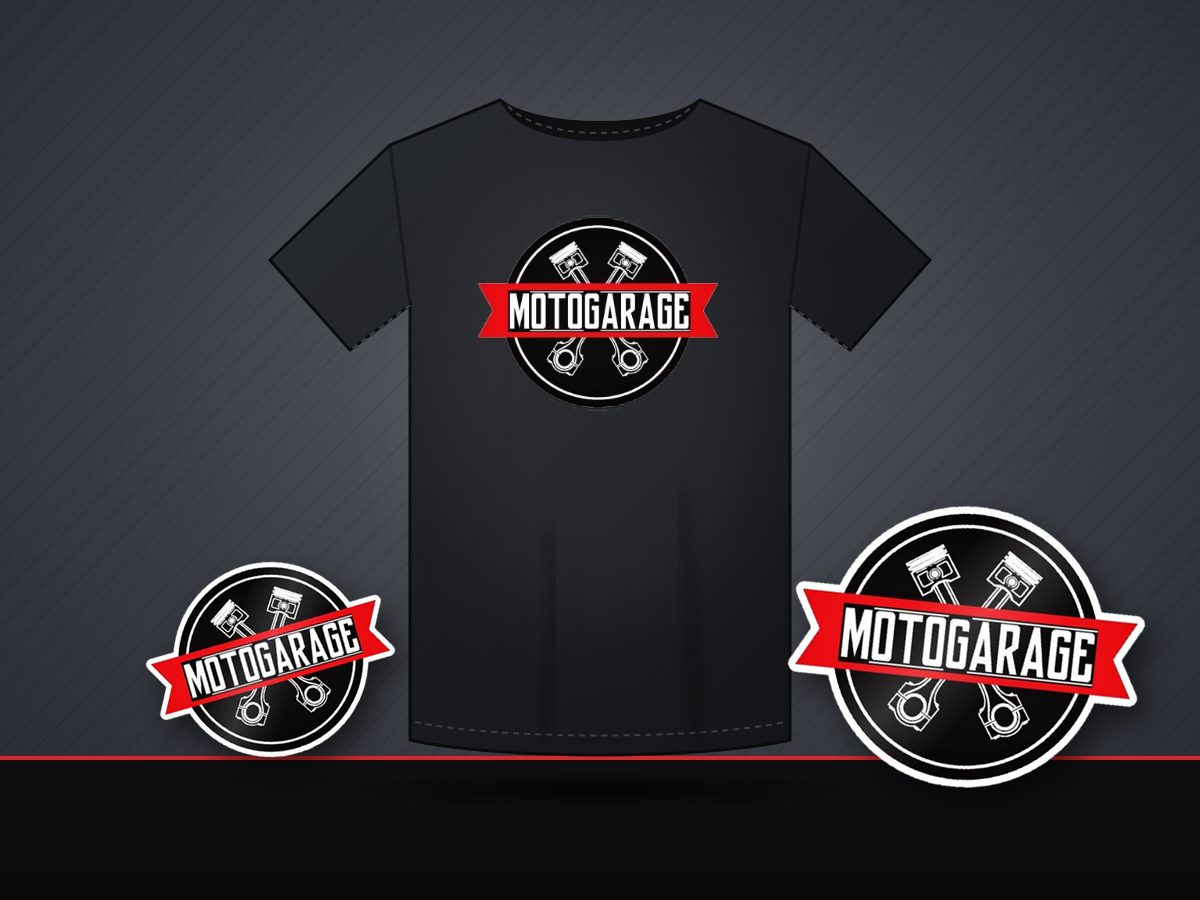
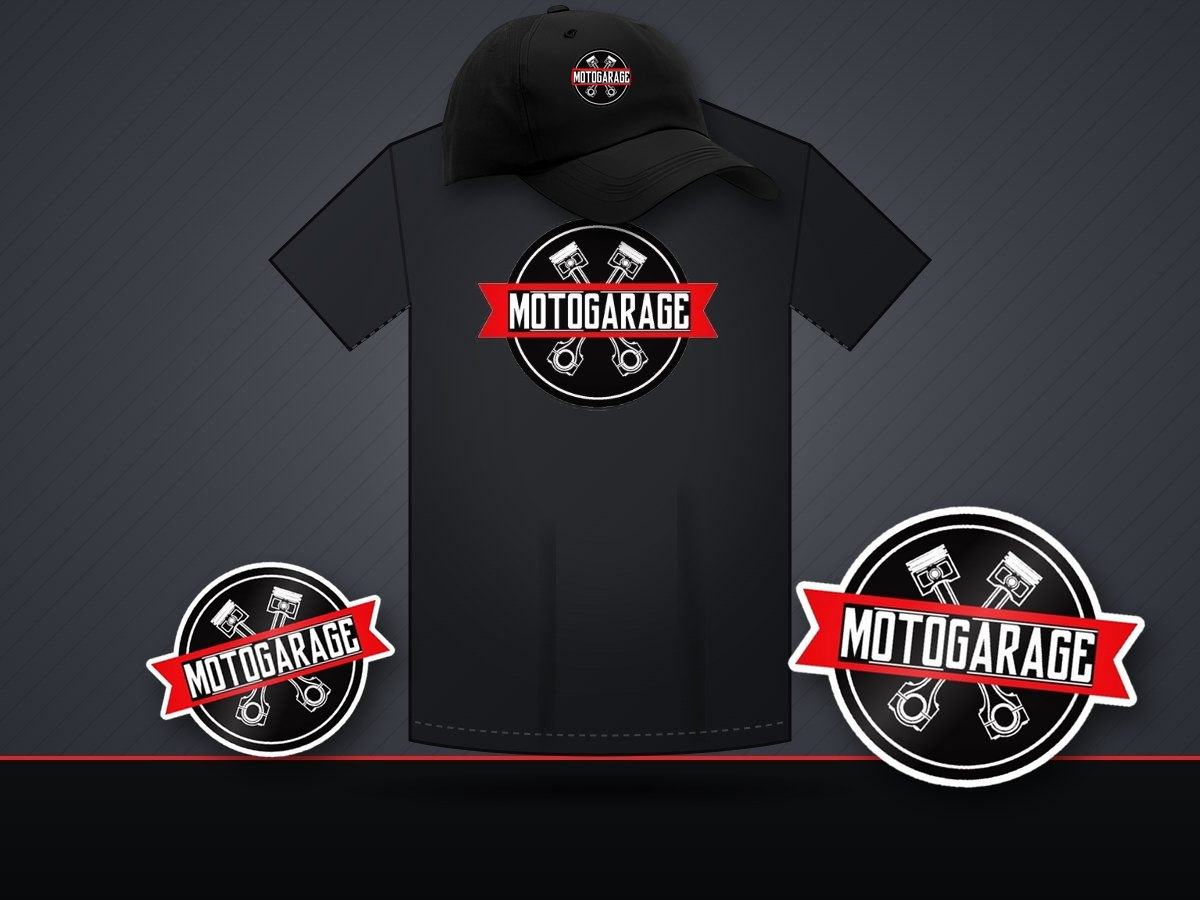
feat(db): demo campaign prizes drawn by Quiniela with updated quantities
Seed: 5 cash prizes and 2 apparel kits, every prize uses the Quiniela
mechanism, the vehicle's conditions put delivery and transfer costs on
the winner, and the bases describe the Quiniela draw and vacancies. The
kit image now shows a cap above the T-shirt (CC BY 4.0, credited).

Changed region(s): [[0.37, 0.0, 0.5858, 0.28], [0.5858, 0.1867, 0.6167, 0.2178]]

diff --git a/packages/db/src/scripts/seed.ts b/packages/db/src/scripts/seed.ts
@@ -368,14 +368,43 @@ async function seedDemoCampaign(db: Database, organizationId: string, entriesPer
 		{ organizationId, campaignId, kind: 'psp', status: 'pending' }
 	]);
 
+	// Every prize is decided by the Quiniela (S6) and the winner pays the vehicle's delivery and transfer (S3), owner feedback 2026-10-28.
 	const body = [
 		'# Bases y condiciones (borrador de demostración)',
 		'',
 		'Este texto es un **borrador** que muestra cómo se publican las bases. No es un reglamento vigente.',
 		'',
-		'- La modalidad, la autoridad de aplicación y el mecanismo de selección se completan con la aprobación legal.',
-		'- Las reglas esenciales quedan bloqueadas al abrir la campaña. Cualquier cambio material genera una nueva versión publicada.',
-		'- La lista de participaciones se congela al cierre y se publica su huella SHA-256 antes de la adjudicación.'
+		'## Premios',
+		'',
+		'1. Una Honda Tornado 300 0 km. La entrega del vehículo y los gastos de patentamiento y transferencia están a cargo del ganador.',
+		'2. Cinco premios de $100.000 en efectivo.',
+		'3. Dos kits de indumentaria MotoGarage (remera, gorra y calcomanías).',
+		'',
+		'## Cupones',
+		'',
+		'- Cada chance es un cupón numerado del 0000 al 9999, y cada cupón vale una chance. Los números se asignan en orden cuando se confirma el pago.',
+		'- Cuando no quedan cupones libres, no se venden más chances.',
+		'',
+		'## Cómo se adjudican los premios',
+		'',
+		'- Al cierre se congela la lista de cupones y se publican la lista, sin datos personales, y su huella SHA-256.',
+		'- Todos los premios salen de los 20 números del extracto oficial de una jugada de la Quiniela realizada después de esa publicación. La jugada, su fecha y hora y el enlace al extracto oficial se publican en el registro de transparencia.',
+		'- Los 20 números se leen en su orden oficial, del 1.º al 20.º. Un número gana cuando coincide con un cupón válido de la lista publicada que todavía no ganó ningún premio.',
+		'- Los premios se completan en este orden: la moto, después los premios en efectivo y por último los kits. El primer número que coincide gana la moto, los cinco siguientes ganan los premios en efectivo y los dos siguientes, los kits.',
+		'- Los números que coinciden después definen los suplentes, en el mismo orden: dos para la moto y uno para cada premio en efectivo y cada kit.',
+		'- Un número repetido o un cupón que ya ganó no cuenta. Cada premio tiene un único ganador, y una misma persona puede ganar más de un premio con cupones distintos.',
+		'- La plataforma no hace un sorteo propio: cualquiera puede comprobar el resultado con la lista publicada y el extracto oficial.',
+		'',
+		'## Premios vacantes',
+		'',
+		'- Si los números del extracto no alcanzan para todos los premios, los premios sin cupón ganador quedan vacantes. Los premios ya ganados se mantienen.',
+		'- La campaña se reabre para una nueva ronda, con una nueva fecha de cierre anunciada en el registro público. Todos los cupones vendidos siguen participando.',
+		'- Al cierre de cada ronda se publica una nueva lista con su huella, y la siguiente jugada de la Quiniela decide solo los premios vacantes, con las mismas reglas.',
+		'',
+		'## Generales',
+		'',
+		'- La modalidad y la autoridad de aplicación se completan con la aprobación legal.',
+		'- Las reglas esenciales quedan bloqueadas al abrir la campaña. Cualquier cambio material genera una nueva versión publicada.'
 	].join('\n');
 	await db.insert(s.campaignRuleVersions).values({
 		organizationId,
@@ -389,16 +418,37 @@ async function seedDemoCampaign(db: Database, organizationId: string, entriesPer
 	});
 
 	// Thumbnails that identify each prize at a glance; credits in apps/web/static/tenants/motogarage/premios/CREDITS.md.
+	// Who pays the vehicle's delivery and transfer is a condition of this campaign, not of the organization (S3, 2026-10-28).
 	await db.insert(s.prizes).values([
-		{ organizationId, campaignId, position: 1, kind: 'vehicle', title: 'Honda Tornado 300 0 km', description: 'Patentamiento y flete a cargo de la organización, según bases.', declaredValueMinor: 850_000_000, quantity: 1, alternatesCount: 2, mechanism: 'quiniela', imageUrl: '/tenants/motogarage/premios/moto.jpg' },
-		{ organizationId, campaignId, position: 2, kind: 'cash', title: '$100.000 en efectivo', declaredValueMinor: 10_000_000, quantity: 10, alternatesCount: 1, imageUrl: '/tenants/motogarage/premios/efectivo.jpg' },
-		{ organizationId, campaignId, position: 3, kind: 'product', title: 'Kit de indumentaria MotoGarage', description: 'Remera, gorra y calcomanías.', declaredValueMinor: 6_000_000, quantity: 5, alternatesCount: 1, imageUrl: '/tenants/motogarage/premios/kit.jpg' }
+		{
+			organizationId,
+			campaignId,
+			position: 1,
+			kind: 'vehicle',
+			title: 'Honda Tornado 300 0 km',
+			description: 'La entrega y los gastos de patentamiento y transferencia están a cargo del ganador, según bases.',
+			conditions: 'El ganador se hace cargo de la entrega del vehículo y de los gastos de patentamiento y transferencia.',
+			declaredValueMinor: 850_000_000,
+			quantity: 1,
+			alternatesCount: 2,
+			mechanism: 'quiniela',
+			imageUrl: '/tenants/motogarage/premios/moto.jpg'
+		},
+		{ organizationId, campaignId, position: 2, kind: 'cash', title: '$100.000 en efectivo', declaredValueMinor: 10_000_000, quantity: 5, alternatesCount: 1, mechanism: 'quiniela', imageUrl: '/tenants/motogarage/premios/efectivo.jpg' },
+		{ organizationId, campaignId, position: 3, kind: 'product', title: 'Kit de indumentaria MotoGarage', description: 'Remera, gorra y calcomanías.', declaredValueMinor: 6_000_000, quantity: 2, alternatesCount: 1, mechanism: 'quiniela', imageUrl: '/tenants/motogarage/premios/kit.jpg' }
 	]);
 
 	await db.insert(s.campaignFaqs).values([
 		{ organizationId, campaignId, position: 0, question: '¿Necesito crear una cuenta para comprar?', answer: 'No. Comprás con tu DNI y tu email, y recibís el comprobante y el acceso a tus archivos por correo.' },
 		{ organizationId, campaignId, position: 1, question: '¿Cómo consulto mis compras?', answer: 'En Consultar ingresás tu DNI y te enviamos un código de un solo uso al email de tu compra. Nadie más puede ver tus datos.' },
 		{ organizationId, campaignId, position: 2, question: '¿Qué significa la huella SHA-256?', answer: 'Al cierre publicamos la lista completa de participaciones sin datos personales y su huella. Cualquiera puede recalcularla y comprobar que la lista no cambió después.' },
+		{
+			organizationId,
+			campaignId,
+			position: 3,
+			question: '¿Quién paga la entrega y la transferencia de la moto?',
+			answer: 'En esta campaña, el ganador: la entrega del vehículo y los gastos de patentamiento y transferencia están a su cargo, como dicen las bases.'
+		},
 		{ organizationId, campaignId: null, position: 0, question: '¿Hacen envíos?', answer: 'Sí, los productos físicos se envían a todo el país o se retiran en el taller.' },
 		{
 			organizationId,
@@ -414,14 +464,14 @@ async function seedDemoCampaign(db: Database, organizationId: string, entriesPer
 			position: 2,
 			question: '¿Cómo y cuándo se realiza el sorteo?',
 			answer:
-				'El sorteo se hace en la fecha publicada en la campaña y se transmite en vivo por nuestro Instagram y nuestro canal de YouTube. El premio mayor sale de la Lotería Nacional; los demás premios se sortean con la app Sorteos.'
+				'El sorteo se hace en la fecha publicada en la campaña y se transmite en vivo por nuestro Instagram y nuestro canal de YouTube. Los premios salen de los 20 números del extracto oficial de la Quiniela, como explican las bases de cada campaña. Si un premio no tiene cupón ganador, la campaña se reabre y una próxima jugada lo decide.'
 		},
 		{
 			organizationId,
 			campaignId: null,
 			position: 3,
 			question: '¿Quién paga los gastos de transferencia y flete del premio?',
-			answer: 'Los gastos de transferencia y el flete del premio están a cargo de MotoGarage.'
+			answer: 'Depende de cada campaña: lo indican sus bases y las condiciones de cada premio.'
 		}
 	]);
 }

diff --git a/apps/web/static/tenants/motogarage/premios/CREDITS.md b/apps/web/static/tenants/motogarage/premios/CREDITS.md
@@ -8,8 +8,9 @@ Metadata (author, license, source) comes from the Commons API (`prop=imageinfo&i
 | --- | --- | --- | --- | --- | --- |
 | `moto.jpg` | Honda Tornado 300 0 km | File:Honda Tornado.jpg (a Honda XR 250 Tornado, the predecessor of the XR 300 Tornado), resized to 1200 px wide and placed on a blurred, darkened copy of itself to reach 4:3 | Alan1997 | CC BY-SA 3.0 | https://commons.wikimedia.org/wiki/File:Honda_Tornado.jpg |
 | `efectivo.jpg` | $100.000 en efectivo | File:Billete 100000 - anverso.jpg (the $10.000 note), reduced to 600 px wide and repeated ten times as an overlapping fan on a dark background; not a legal-size reproduction | Argentine Government (Casa de Moneda) | CC BY 4.0 | https://commons.wikimedia.org/wiki/File:Billete_100000_-_anverso.jpg |
-| `kit.jpg` | Kit de indumentaria MotoGarage | MotoGarage's own `remera.jpg` cropped to 4:3, with two stickers cut out of its own `calcomania.jpg`; there is no photo of the cap yet | MotoGarage | Owner's images | `apps/web/static/tenants/motogarage/` |
+| `kit.jpg` | Kit de indumentaria MotoGarage | MotoGarage's own `remera.jpg` cropped to 4:3, with two stickers cut out of its own `calcomania.jpg` | MotoGarage | Owner's images | `apps/web/static/tenants/motogarage/` |
+| `kit.jpg` (cap) | Kit de indumentaria MotoGarage | A sample cap above the T-shirt until there is a photo of the real one (owner feedback 2026-10-28, S2): File:Baseball cap.png (a cut-out of a blue cap) turned charcoal, resized to 340 px wide, with the T-shirt's round logo print on its front and a soft shadow | ReneeWrites (derivative), from a photograph by TexasRebel | CC BY 4.0 | https://commons.wikimedia.org/wiki/File:Baseball_cap.png |
 
-`moto.jpg` is a derivative of a CC BY-SA 3.0 work and is shared under the same license.
+`moto.jpg` is a derivative of a CC BY-SA 3.0 work and is shared under the same license. The cap in `kit.jpg` is modified from the CC BY 4.0 original (recolored, resized, logo added).
 
 License texts: [CC BY-SA 3.0](https://creativecommons.org/licenses/by-sa/3.0), [CC BY 4.0](https://creativecommons.org/licenses/by/4.0).
